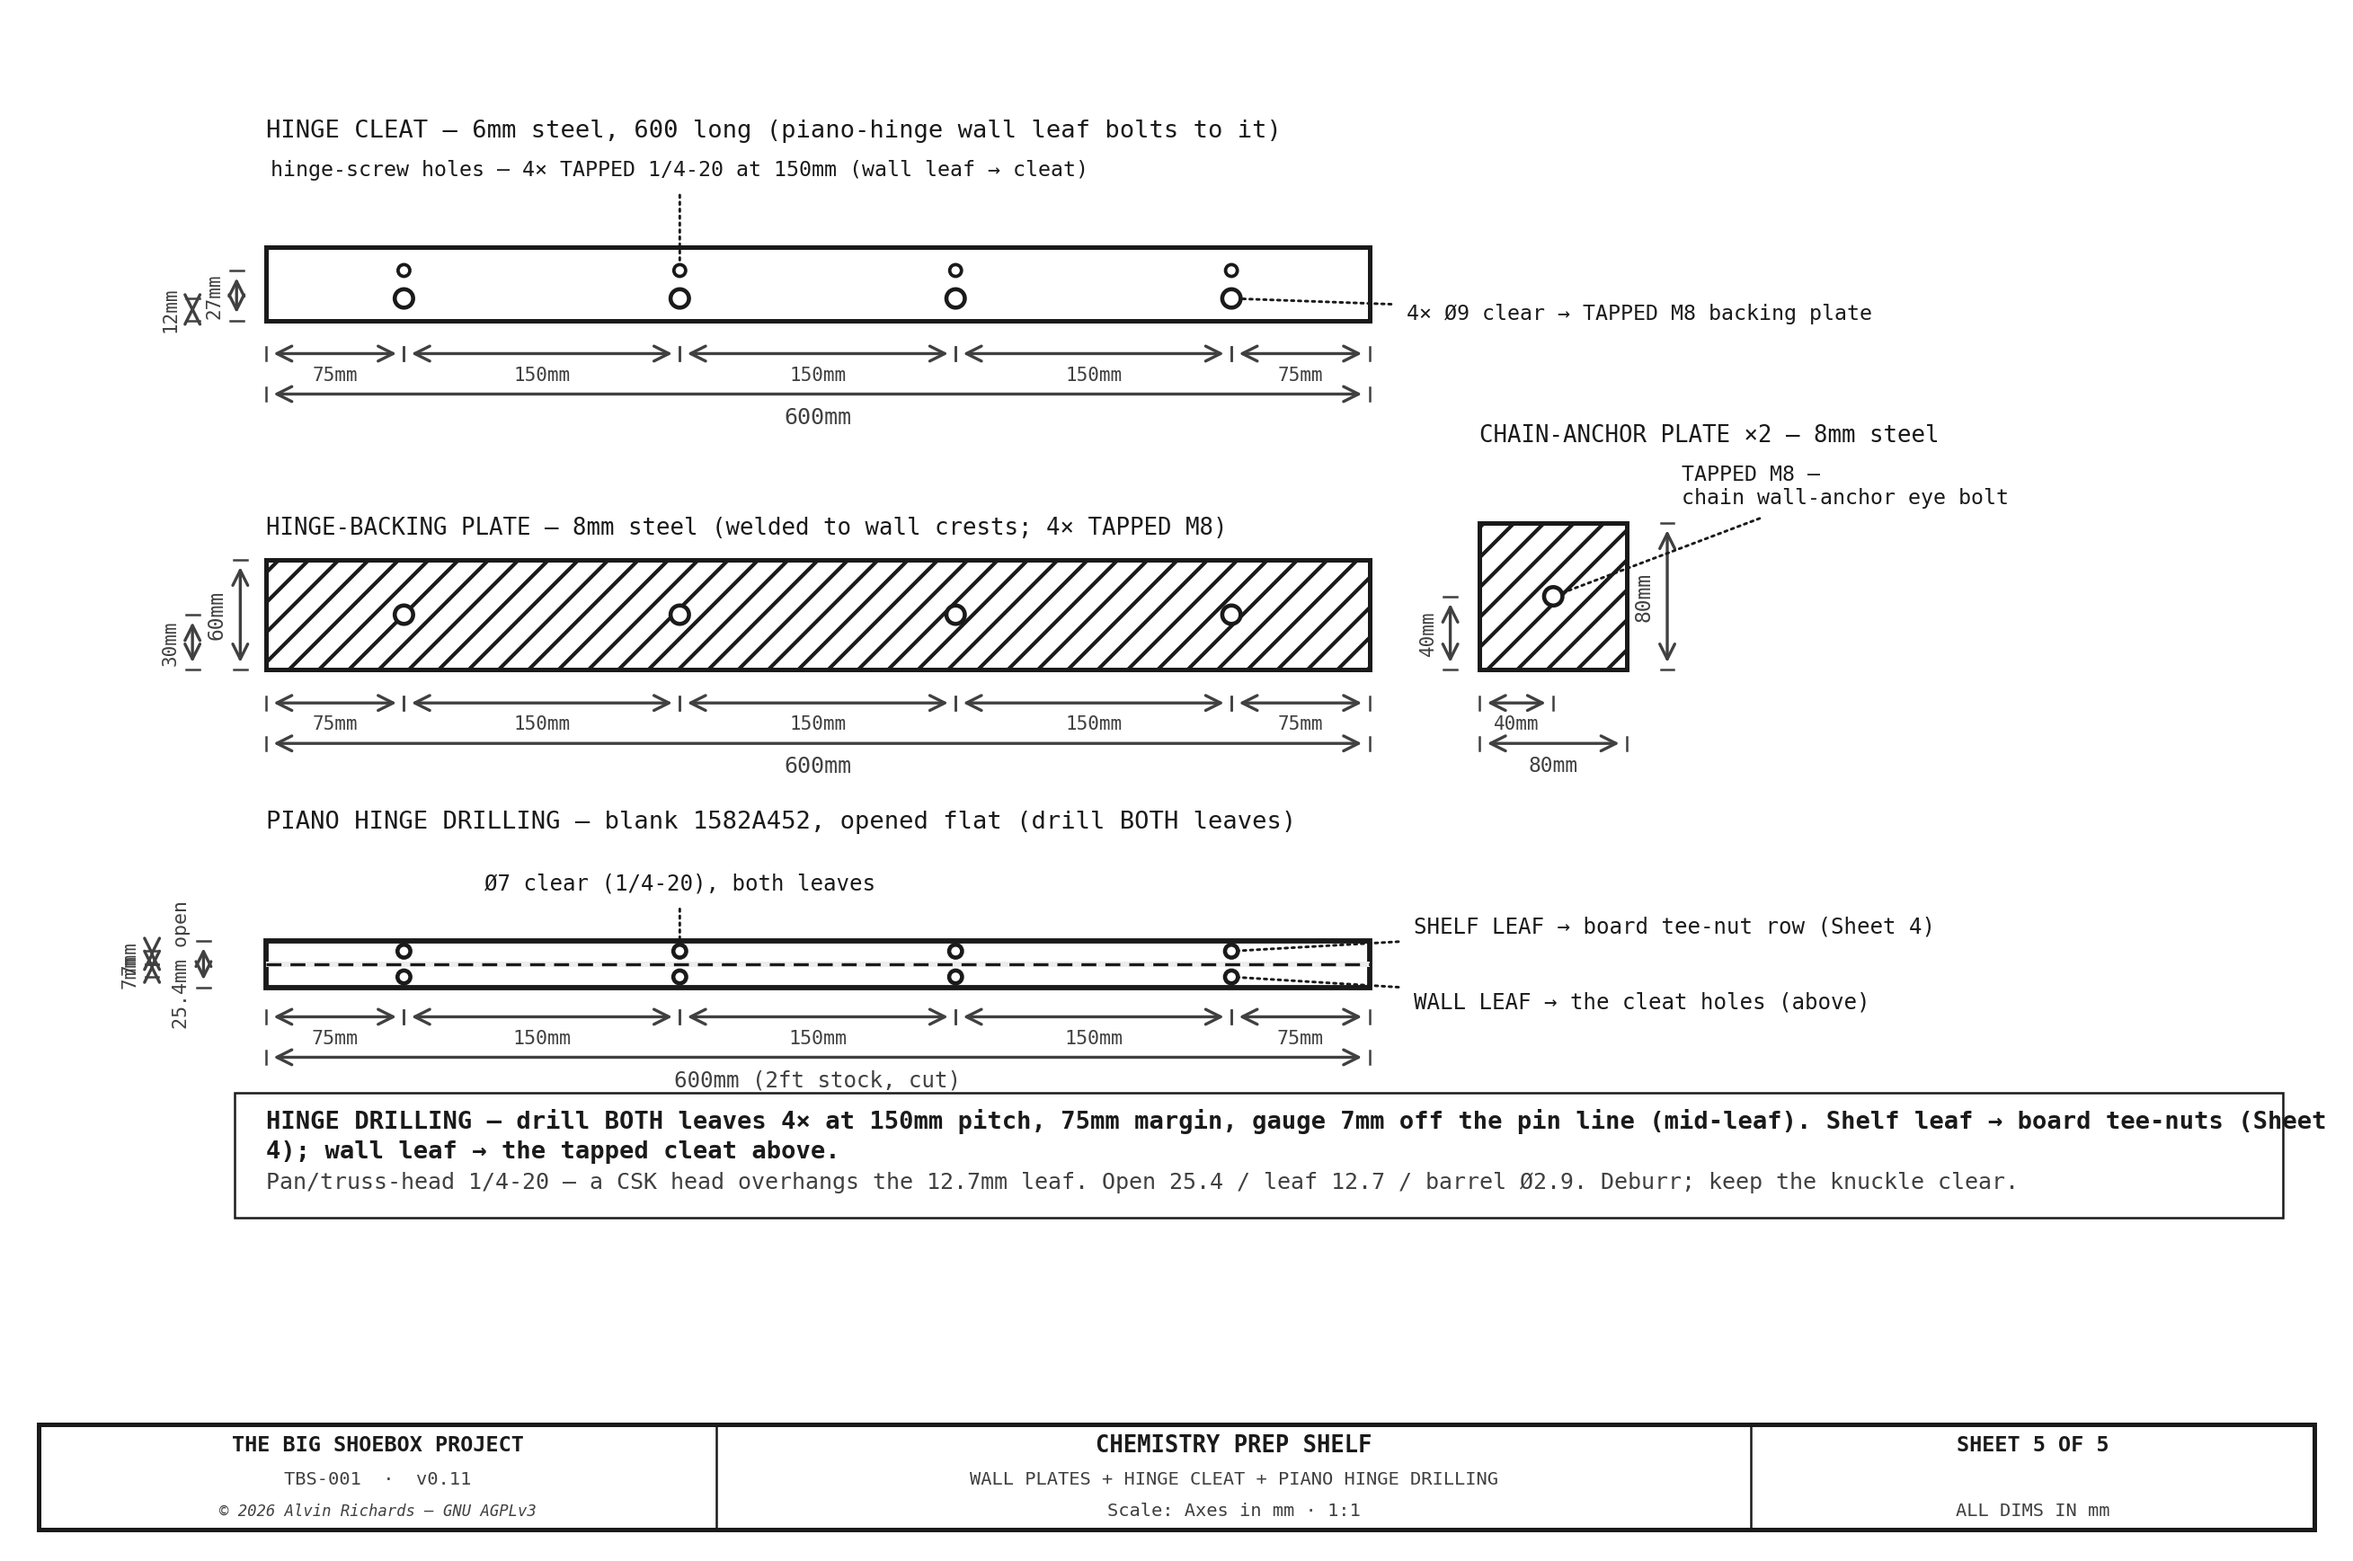
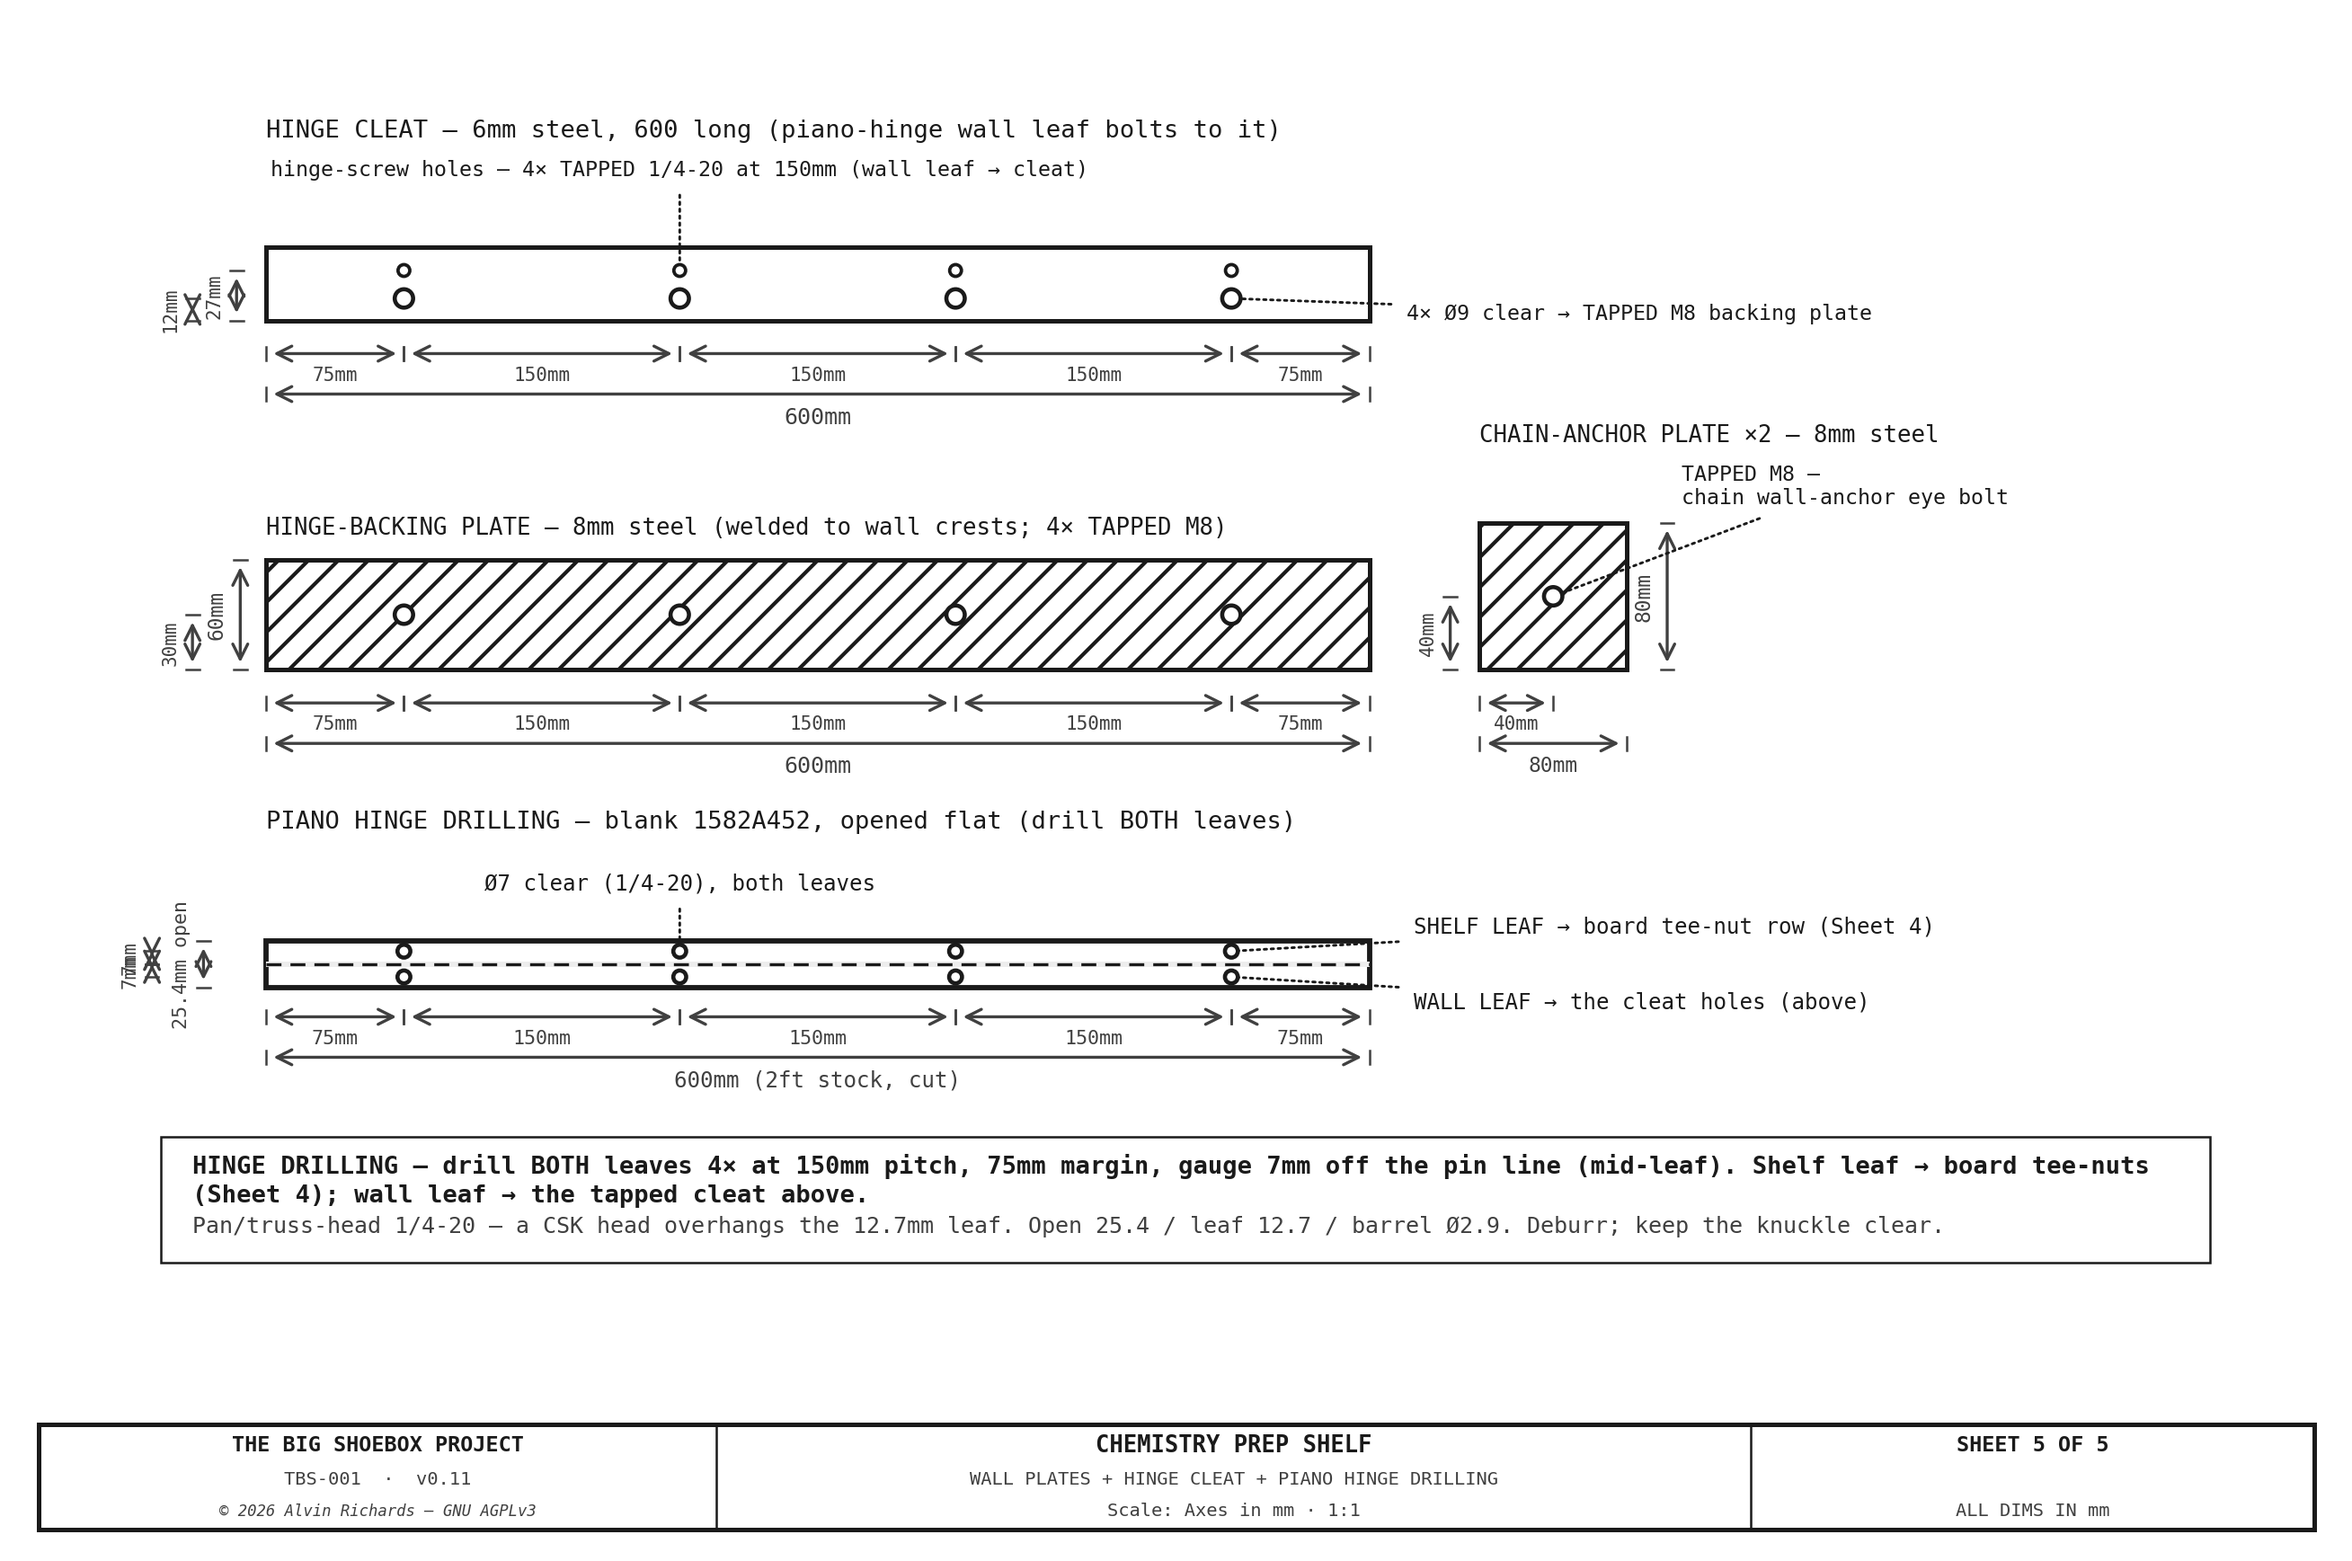
Tidy labels

diff --git a/src/generators/generate_shelf_diagram.py b/src/generators/generate_shelf_diagram.py
@@ -298,8 +298,8 @@ def sheet4():
     draw_dim_v(ax, -34, 0, TNUT_HINGE_YD, f"{TNUT_HINGE_YD}mm", fs=5.5, font=FONT)
 
     # eye holes (2): X inset from each side; row Y from the back edge
-    draw_dim_h(ax, 0, EYE_XS[0], -70, f"{TNUT_EYE_X}mm", fs=5.2, font=FONT, above=False)
-    draw_dim_h(ax, EYE_XS[1], SHELF_W, -70, f"{TNUT_EYE_X}mm", fs=5.2, font=FONT, above=False)
+    draw_dim_h(ax, 0, EYE_XS[0], int(TNUT_EYE_YD) + 50, f"{TNUT_EYE_X}mm", fs=5.2, font=FONT, above=False)
+    draw_dim_h(ax, EYE_XS[1], SHELF_W, int(TNUT_EYE_YD) + 50, f"{TNUT_EYE_X}mm", fs=5.2, font=FONT, above=False)
     draw_dim_v(ax, -62, 0, int(TNUT_EYE_YD), f"{int(TNUT_EYE_YD)}mm", fs=5.5, font=FONT)
 
     # callouts (right side — front-corner eye tee-nut + lip; hinge row is dimensioned + noted)
@@ -317,7 +317,7 @@ def sheet4():
         "back edge (mid-leaf, clear of the barrel); drill both leaves to this pitch. Use pan/truss-head "
         "screws — a CSK head overhangs the narrow leaf.",
         "Back (bottom) edge = piano hinge (no lip). Front corners: 2× Ø8 tee-nut for the chain eye bolts.",
-    ], 0, SHELF_DEPTH + 285, spacing=18, fs=6, width=680, wrap=112, font=FONT)
+    ], 0, SHELF_DEPTH + 285, spacing=18, fs=6, width=750, wrap=100, font=FONT)
 
     title_block(ax, "SHEET 4 OF 5", drawing_title="CHEMISTRY PREP SHELF",
                 subtitle="BOARD FABRICATION — 18mm PLY (cut + tee-nut drill)",
@@ -416,7 +416,7 @@ def sheet5():
         "tee-nuts (Sheet 4); wall leaf → the tapped cleat above.",
         "Pan/truss-head 1/4-20 — a CSK head overhangs the 12.7mm leaf. Open 25.4 / leaf 12.7 / barrel Ø2.9. "
         "Deburr; keep the knuckle clear.",
-    ], 60, HY0 - HINGE_LEAF - 66, spacing=17, fs=6, width=1080, wrap=142, font=FONT)
+    ], 20, HY0 - HINGE_LEAF - 90, spacing=17, fs=6, width=1080, wrap=138, font=FONT)
 
     title_block(ax, "SHEET 5 OF 5", drawing_title="CHEMISTRY PREP SHELF",
                 subtitle="WALL PLATES + HINGE CLEAT + PIANO HINGE DRILLING",
